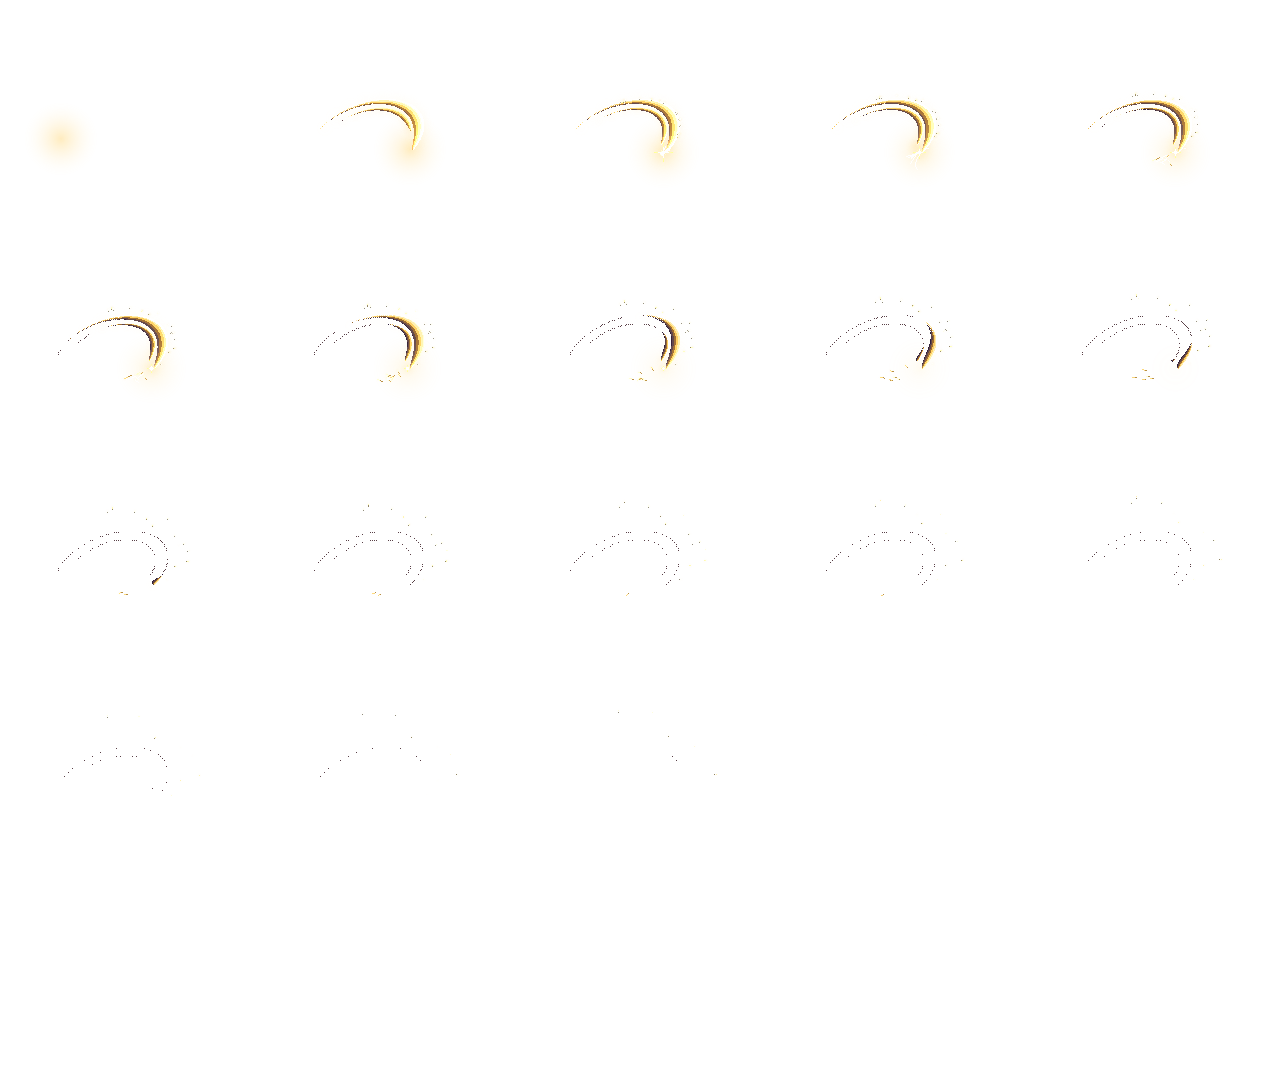
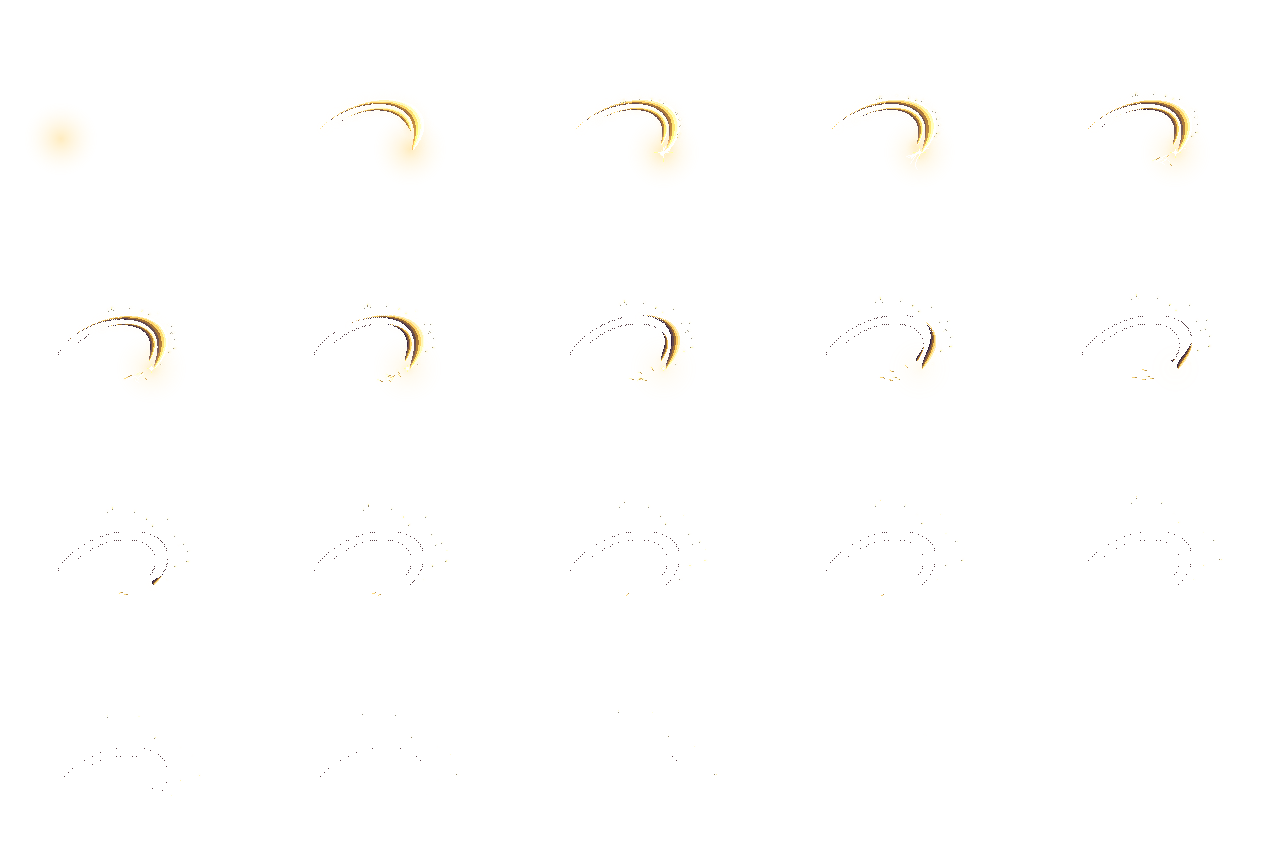
Sync Flash Executioner slash effect to basic attack

diff --git a/native-engine/src/presentation.hpp b/native-engine/src/presentation.hpp
@@ -20,7 +20,7 @@ class Presentation {
     SDL_Texture* titleMenu_=nullptr;
     std::array<SDL_Texture*,static_cast<int>(FlashActor::Count)> flashActorTextures_{};
     std::array<SDL_Texture*,static_cast<int>(FlashFx::Count)> flashFxTextures_{};
-    struct ReviewedFlashEvent {FlashFx role;float x,y,born;int facing;bool follow;};
+    struct ReviewedFlashEvent {FlashFx role;float x,y,born;int facing;bool follow;float playbackDuration=0;};
     std::vector<ReviewedFlashEvent> reviewedFlashEvents_;
     float reviewedFlashClock_=-1,reviewedFlashMoveAge_=0;
     WhiteMove reviewedFlashMove_=WhiteMove::None;
@@ -902,7 +902,8 @@ public:
         const float duration=playbackDuration>0?playbackDuration:sheet.duration;
         if(!sheet.loop&&(age<0||age>=duration))return false;
         const float t=sheet.loop?std::fmod(std::max(0.f,age),duration):age;
-        const int frame=std::clamp(static_cast<int>(t*sheet.fps),0,sheet.count-1);
+        const float frameRate=playbackDuration>0?sheet.fps*sheet.duration/duration:sheet.fps;
+        const int frame=std::clamp(static_cast<int>(t*frameRate),0,sheet.count-1);
         reviewedFlashSprite(sheet,flashFxTextures_[index],frame,x,y,facing,255,angle);
         return true;
     }
@@ -929,12 +930,14 @@ public:
         }
         reviewedFlashClock_=g.clock;
         reviewedFlashEvents_.erase(std::remove_if(reviewedFlashEvents_.begin(),reviewedFlashEvents_.end(),
-            [&](const ReviewedFlashEvent& event){return g.clock-event.born>=flashEffects[static_cast<int>(event.role)].duration;}),
+            [&](const ReviewedFlashEvent& event){const auto& sheet=flashEffects[static_cast<int>(event.role)];
+                const float lifetime=event.playbackDuration>0?event.playbackDuration:sheet.duration;
+                return g.clock-event.born>=lifetime;}),
             reviewedFlashEvents_.end());
-        auto spawn=[&](FlashFx role,float x,float y,int facing,bool follow,float delay=0.f){
+        auto spawn=[&](FlashFx role,float x,float y,int facing,bool follow,float delay=0.f,float playbackDuration=0.f){
             if(hasReviewedFlashFx(role)){
                 const auto& sheet=flashEffects[static_cast<int>(role)];
-                reviewedFlashEvents_.push_back({role,x,y,g.clock-delay-sheet.spawnAgeSeconds,facing,follow});
+                reviewedFlashEvents_.push_back({role,x,y,g.clock-delay-sheet.spawnAgeSeconds,facing,follow,playbackDuration});
             }
         };
         const bool newMove=p.whiteMove!=reviewedFlashMove_||p.whiteAge<reviewedFlashMoveAge_;
@@ -964,7 +967,12 @@ public:
             if((newMove&&trigger==0)||(before<trigger&&p.whiteAge>=trigger)){
                 const float sourceAge=std::max(0.f,p.whiteAge-trigger)/speed+skippedPrelude+
                     (p.whiteMove==WhiteMove::Verdict?.20f:0.f);
-                spawn(role,p.x,p.y,p.facing,p.whiteMove!=WhiteMove::Blink,sourceAge);
+                float playbackDuration=0.f;
+                if(p.whiteMove==WhiteMove::Slash){
+                    const auto& clip=whiteClips[static_cast<int>(WhiteMove::Slash)];
+                    playbackDuration=(clip.duration-clip.contact)/speed+fxSheet.triggerLeadSeconds;
+                }
+                spawn(role,p.x,p.y,p.facing,p.whiteMove!=WhiteMove::Blink,sourceAge,playbackDuration);
             }
         }
         for(const auto& burst:g.lightBursts){
@@ -998,7 +1006,7 @@ public:
         const auto& p=g.player;
         for(const auto& event:reviewedFlashEvents_){
             reviewedFlashFx(event.role,g.clock-event.born,event.follow?p.x:event.x,event.follow?p.y:event.y,
-                            event.follow?p.facing:event.facing,front);
+                            event.follow?p.facing:event.facing,front,0,event.playbackDuration);
         }
         if(p.whiteNight&&hasReviewedFlashFx(FlashFx::Orb)){
             for(int i=0;i<p.storedLightLances;++i){

diff --git a/native-engine/src/flash_executioner_assets.hpp b/native-engine/src/flash_executioner_assets.hpp
@@ -33,7 +33,7 @@ inline constexpr std::array<FlashSheet,static_cast<int>(FlashActor::Count)> flas
     {"flash_executioner/actor_swap.png", 192, 192, 4, 4, 14, 70.0f, 133.0f, 1.4f, 0.24f, -1, false, true, -1, -1, 0.0f, 0.0f, 0.0f, 60.0f, 0.0f, 0.0f, 0, 60.0f, -1.0f}, // Swap
 }};
 inline constexpr std::array<FlashSheet,static_cast<int>(FlashFx::Count)> flashEffects{{
-    {"flash_executioner/effect_slash.png", 256, 216, 5, 5, 25, 105.0f, 165.0f, 2.0f, 0.4f, -1, false, true, -1, -1, 0.03333333333333333f, 0.0f, 0.0f, 60.0f, 0.0f, 0.0f, 0, 60.0f, -1.0f}, // Slash
+    {"flash_executioner/effect_slash.png", 256, 216, 5, 4, 20, 105.0f, 165.0f, 2.0f, 0.3333333333333333f, -1, false, true, -1, -1, 0.03333333333333333f, 0.0f, 0.0f, 60.0f, 0.0f, 0.0f, 0, 60.0f, -1.0f}, // Slash
     {"flash_executioner/effect_rush.png", 320, 160, 4, 6, 22, 80.0f, 110.0f, 2.0f, 0.35f, -1, false, true, -1, -1, 0.05f, 0.0f, 0.0f, 60.0f, 0.0f, 0.0f, 0, 60.0f, -1.0f}, // Rush
     {"flash_executioner/effect_command.png", 160, 144, 5, 5, 25, 64.0f, 124.0f, 2.1f, 0.4f, -1, false, true, -1, -1, 0.2f, 0.0f, 0.0f, 60.0f, 10.0f, -25.0f, 0, 60.0f, -1.0f}, // Command
     {"flash_executioner/effect_blinkout.png", 288, 224, 4, 5, 20, 144.0f, 174.0f, 1.4f, 0.32f, -1, false, true, -1, -1, 0.0f, 0.0f, 0.0f, 60.0f, 0.0f, 0.0f, 0, 60.0f, 0.033333333333333326f}, // BlinkOut

diff --git a/Art/flash-executioner/pixelfx/README.md b/Art/flash-executioner/pixelfx/README.md
@@ -2,7 +2,7 @@
 All 13 active roles use existing finished resources from https://github.com/patch-gg/pixelfx commit5294518ce7c72e48b6100a744596e0acf57f2826.
 No old executor custom drawKind or _lib.js recipe reused. Every effect draw/create and upstream helper/core file is byte-identical to its source. source-verification.json verifies leaf hashes against git show; source-original/ preserves the actual originals, dependencies and MIT license.
 
-Changes are palette, existing options(radius/reach/height/length/stone), supplied actual actor masks, canvas registration, uniform runtime scale, and timing/frame selection. Exception requested by the owner: `Lance` and `SkyLance` atlases are additionally edited pixel-by-pixel in `manual-corrections/lance/` to replace the broad sword silhouette with a long, thin shaft and tapered point. No AI or effect re-render was used; the exact source recipe and pre-edit atlas remain preserved.
+Changes are palette, existing options(radius/reach/height/length/stone), supplied actual actor masks, canvas registration, uniform runtime scale, and timing/frame selection. Basic Slash retains 19 visible samples plus one transparent release frame; five redundant empty tail frames are removed, and runtime stretches or compresses the effect to end with Basic recovery at any attack speed. Exception requested by the owner: `Lance` and `SkyLance` atlases are additionally edited pixel-by-pixel in `manual-corrections/lance/` to replace the broad sword silhouette with a long, thin shaft and tapered point. No AI or effect re-render was used; the exact source recipe and pre-edit atlas remain preserved.
 originals/ preserves canonical30fps original exports. Each variants/<Role>/original-60fps.png and before-after.png uses same60fps/source seed as variant, with same actual actor input for fair comparison. Canonical original packing artifact remains preserved there as historical export.
 
 Packing correction: upstream spriteSheet calls canvas.paste which multiplies RGB by alpha onto transparent atlas and retains original alpha. That produces double-premultiplied halos under standard straight-alpha blending. render-executor-v2.mjs now copies existing r.frames.clear straight RGBA bytes directly into the atlas. Before RGBA25,23,17,25 becomes correctly straight RGBA255,235,173,25. No effect source modified. packing-correction/ contains before/after light/dark comparison evidence.
@@ -17,7 +17,7 @@ Visual peaks are snapped to exported frame-map samples, not estimated continuous
 
 Each variants/<Role>/ contains exact PNG+JSON, source-frame map, same-fps original PNG, original-vs-variant contact, dark/light contact and approximate GIF. GIF20ms timing is inspection only; atlasfps60 and descriptor lifetime are authoritative.
 
-QA: all15 source leaf hashes match pinned upstream, allPNG hashes match manifest, no nontransparent edge pixels, all12 one-shots end transparent, 3 full loops remain visible. Upstream check reports13pass0fail0warnings in upstream-check.txt; expanded registered variant PNGs have no border pixels. No game/device tests, builds, GitHub Actions or GitHub writes performed by this authoring agent. Main agent must review before runtime import.
+QA: all15 source leaf hashes match pinned upstream, allPNG hashes match manifest, no nontransparent edge pixels, all10 one-shots end transparent, 3 full loops remain visible. Upstream check reports13pass0fail0warnings in upstream-check.txt; expanded registered variant PNGs have no border pixels. Static PNG/hash checks passed after the trim. No game/device tests, builds or GitHub Actions were run; runtime binding is updated, with owner device playback still pending.
 
 
 ## Reproduce the exporter

diff --git a/Art/flash-executioner/README.md b/Art/flash-executioner/README.md
@@ -26,7 +26,7 @@ Effects retain straight RGBA pixels. Export packing corrects upstream atlas doub
 
 | Event | v2 source-frame registration |
 | --- | --- |
-| Basic slash | Start1/30s before unchanged contact; account for basic-speed multiplier |
+| Basic slash | 19 visible frames plus transparent release frame; starts 1/30s before unchanged contact and scales its lifetime with Basic attack speed |
 | Rush | Start.05s before unchanged contact |
 | Command | Start.2s before unchanged contact; hand offset10,-25 |
 | Blink departure | Start at action age1/30s; collapse aligns with teleport.15s |
